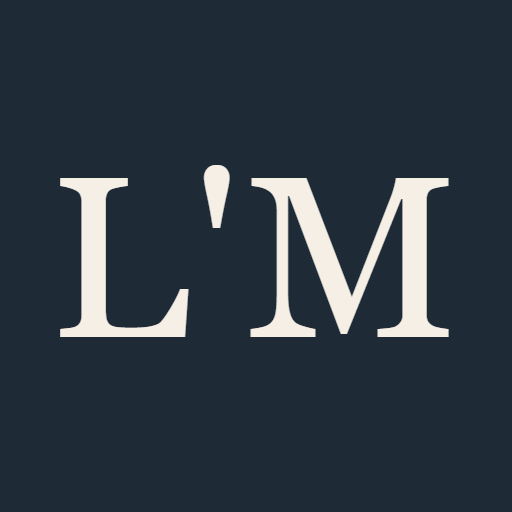
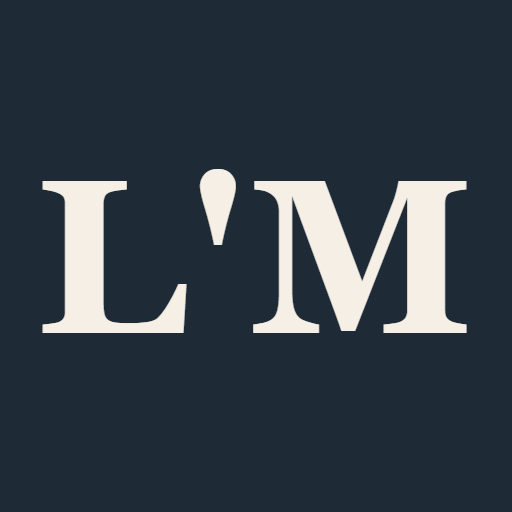
Vista previa del link: solo "L'Mont" grande, cuadrado, para que se lea en la miniatura de WhatsApp

Changed region(s): [[0.375, 0.3438, 0.9375, 0.6562], [0.0625, 0.3438, 0.375, 0.6562], [0.4062, 0.3125, 0.4375, 0.3438]]

diff --git a/apps/web/index.html b/apps/web/index.html
@@ -14,11 +14,11 @@
     <meta property="og:title" content="L'Mont · Sistema de gestión" />
     <meta property="og:description" content="Ventas, stock, caja y reportes." />
     <meta property="og:url" content="https://lmont-j1g1.onrender.com/" />
-    <meta property="og:image" content="https://lmont-j1g1.onrender.com/og.png?v=2" />
+    <meta property="og:image" content="https://lmont-j1g1.onrender.com/og.png?v=4" />
     <meta property="og:image:width" content="1200" />
-    <meta property="og:image:height" content="630" />
+    <meta property="og:image:height" content="1200" />
     <meta property="og:image:alt" content="L'Mont, sistema de gestión" />
-    <meta name="twitter:card" content="summary_large_image" />
+    <meta name="twitter:card" content="summary" />
   </head>
   <body>
     <div id="root"></div>
